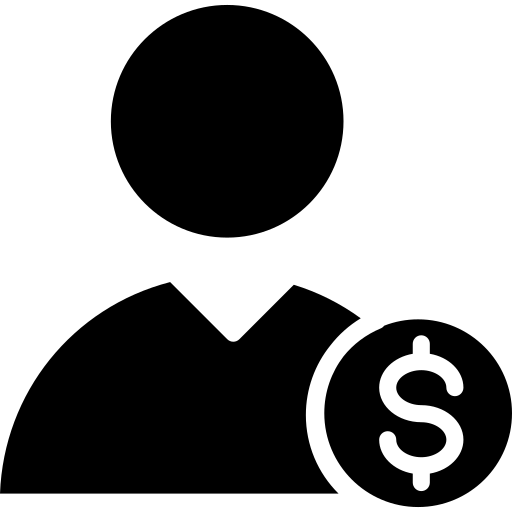
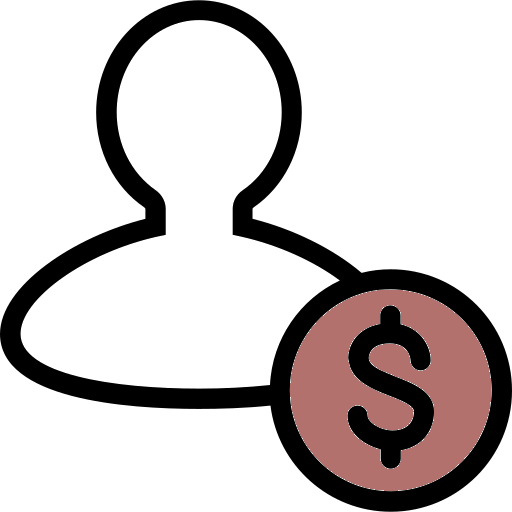
1.01

diff --git a/descriptions/comprador-ilegal.html b/descriptions/comprador-ilegal.html
@@ -1,0 +1,13 @@
+<div class="description-content">
+  <h2>Comprador Ilegal</h2>
+  <p><strong>Tipo:</strong> Distribuidor de Drogas</p>
+  <hr>
+  <p>Punto de distribución clandestina de estupefacientes. Se encuentra junto a una furgoneta.</p>
+  <ul>
+    <li>Venta de marihuana</li>
+    <li>Venta de crack</li>
+    <li>Venta de cocaína</li>
+    <li>Transacciones en efectivo solo</li>
+  </ul>
+  <p><em>Operaciones nocturnas, alto riesgo de confrontación</em></p>
+</div>
